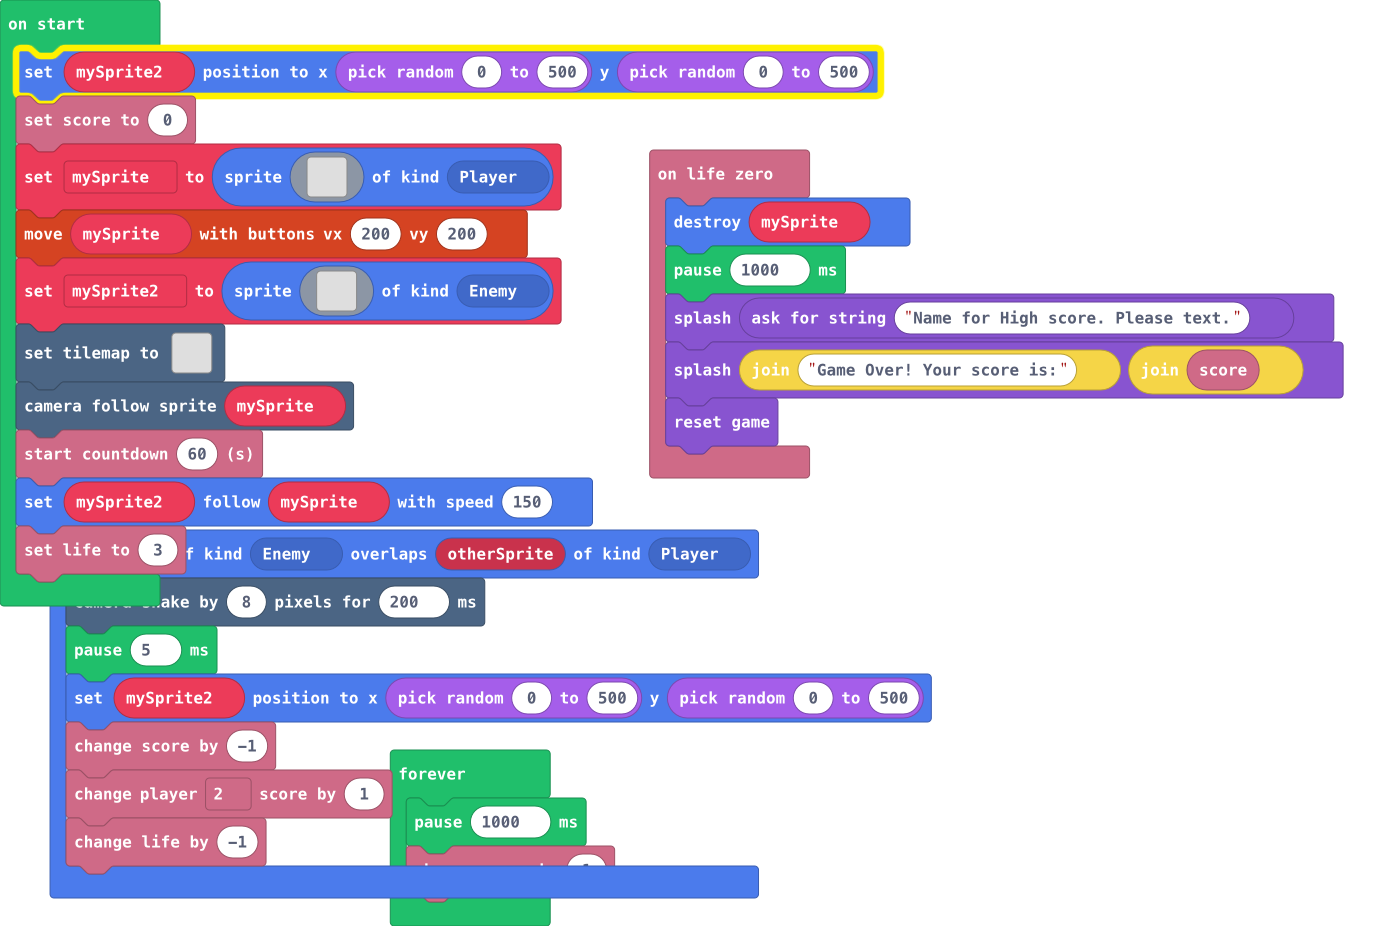
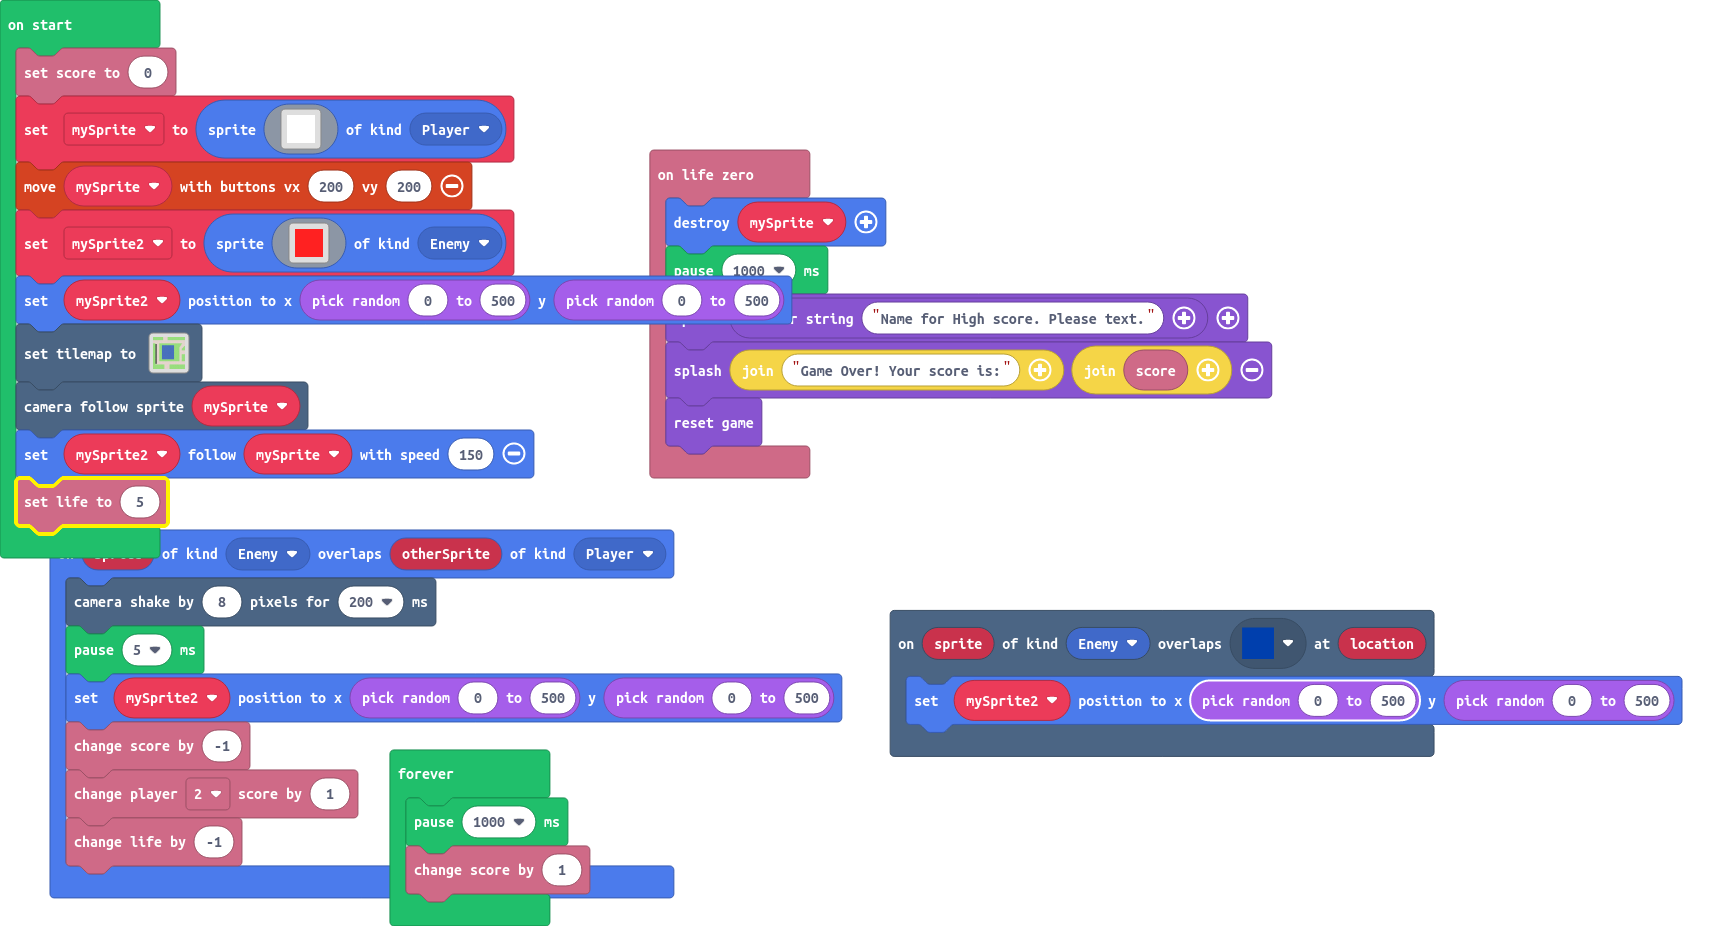
Ver.6.1 hotfix: ktcb-1: fixed the emeny who crashed the while loading the game Removed the countdown. ktcb-2: fixed who emeny spawned into the water.

diff --git a/main.ts b/main.ts
@@ -1,3 +1,6 @@
+scene.onOverlapTile(SpriteKind.Enemy, myTiles.tile2, function (sprite, location) {
+    mySprite2.setPosition(randint(0, 500), randint(0, 500))
+})
 sprites.onOverlap(SpriteKind.Enemy, SpriteKind.Player, function (sprite, otherSprite) {
     scene.cameraShake(8, 200)
     pause(5)
@@ -13,9 +16,8 @@ info.onLifeZero(function () {
     game.splash("Game Over! Your score is:", "" + info.score())
     game.reset()
 })
-let mySprite: Sprite = null
 let mySprite2: Sprite = null
-mySprite2.setPosition(randint(0, 500), randint(0, 500))
+let mySprite: Sprite = null
 info.setScore(0)
 mySprite = sprites.create(img`
     . . . . . . . . . . . . . . . . 
@@ -54,6 +56,7 @@ mySprite2 = sprites.create(img`
     . 2 2 2 2 2 2 2 2 2 2 2 2 2 2 . 
     . . . . . . . . . . . . . . . . 
     `, SpriteKind.Enemy)
+mySprite2.setPosition(randint(0, 500), randint(0, 500))
 tiles.setTilemap(tiles.createTilemap(hex`3200320003030303030303030303030303030303010101010101010303030303030303030303030303030303030303030303030303030303030303030303030303030303030301010101010101030303030303030303030303030303030303030303030303030303030303030303030303030303030303030101010101010103030303030303030303030303030303030303030303030303030303030303030303030303030303030303010101010101010303030303030303030303030303030303030303030303030303030303030303030303030303030303030301010101010101030303030303030303030303030303030303030303030303030303010101010101010101010101010101010101010101010101010101010101010101010101010101010101010101010101010101010101010101010101010101010101010101010101010101010101010101010101010101010101010101010101010101010101010101010101010101010101010101010101010101010101010101010101010101010101010101010101010101010101010101010101010101010101010101010101010101010101010101010101010101010101010101010101010101010101010101010101010101010101010101010101010101010101010101010101010101010101010101010101010101010101010101010303030301010101010103030303030303030303030303030303030303030303030303030303030303030303030401010101030303030505010101010303030303030303030303030303030303030303030303030303030303030303030304010101010103030303050501010101030303030303030303030303030303030303030303030303030303030303030303030401010101010303030305050101010103030303020202020202020202020202020202020202020303030303030303030304010101010101030303030505010101010303030302020202020202020202020202020202020202030303030303030303040101010101010303030303050501010101030303030202020202020202020202020202020202020203030303030303030304010101010103030303030305050101010103030303020202020202020202020202020202020202020303030303030303040101010101030303030303030505010101010303030302020202020202020202020202020202020202030303030303030304010101010303030303030303050501010101030303030202020202020202020202020202020202020203030303030303030401010103030303030303030305050101010103030303020202020202020202020202020202020202020303030303030303040101010303030303030303030505010101010303030302020202020202020202020202020202020202030303030303030304010101030303030303030303050501010101030303030202020202020202020202020202020202020203030303030303030401010101010101010303030305050101010103030303020202020202020202020202020202020202020303030303030303040101010101010101030303030505010101010303030302020202020202020202020202020202020202030303030303030304010101010101010103030303050501010101030303030202020202020202020202020202020202020203030303030303030401010101010101010303030305050101010103030303020202020202020202020202020202020202020303030303030303040101010101010101030303030505010101010303030302020202020202020202020202020202020202030303030303030304010101010101010103030303050501010101030303030202020202020202020202020202020202020203030303030303030401010103030303030303030305050101010103030303020202020202020202020202020202020202020303030303030303040101010303030303030303030505010101010303030302020202020202020202020202020202020202030303030303030304010101030303030303030303050501010101030303030202020202020202020202020202020202020203030303030303030401010103030303030303030305050101010103030303020202020202020202020202020202020202020303030303030303040101010303030303030303030505010101010303030302020202020202020202020202020202020202030303030303030304010101030303030303030303050501010101030303030202020202020202020202020202020202020203030303030303030401010103030303030303030305050101010103030303020202020202020202020202020202020202020303030303030303040101010303030303030303030505010101010303030303030303030303030303030303030303030303030303030303030304010101030303030303030303050501010101030303030303030303030303030303030303030303030303030303030303030401010103030303030303030305050101010103030303030303030303030303030303030303030303030303030303030303040101010303030303030303030505010101010101010101010101010101010101010101010101010101010101010101010101010101010101010103030303050501010101010101010101010101010101010101010101010101010101010101010101010101010101010101010303030305050101010101010101010101010101010101010101010101010101010101010101010101010101010101010101030303030505010101010101010101010101010101010101010101010101010101010101010101010101010101010101010103030303010101010101010101010101010101010101010101010101010101010101010101010101010101010101010101010303030303030303030303030303030303030101010101010101030303030303030303030303030303030303030303030303030303030303030303030303030303030303010101010101010103030303030303030303030303030303030303030303030303030303030303030303030303030303030301010101010101010303030303030303030303030303030303030303030303030303030303030303030303030303030303030101010101010101030303030303030303030303030303030303030303030303030303030303030303030303030303030303010101010101010103030303030303030303030303030303030303030303030303030303030303030303030303030303030301010101010101010303030303030303030303030303030303030303030303030303030303030303030303030303030303030101010101010101030303030303030303030303030303030303030303030303`, img`
     . . . . . . . . . . . . . . . . . . . . . . . . . . . . . . . . . . . . . . . . . . . . . . . . . . 
     . . . . . . . . . . . . . . . . . . . . . . . . . . . . . . . . . . . . . . . . . . . . . . . . . . 
@@ -107,9 +110,8 @@ tiles.setTilemap(tiles.createTilemap(hex`320032000303030303030303030303030303030
     . . . . . . . . . . . . . . . . . . . . . . . . . . . . . . . . . . . . . . . . . . . . . . . . . . 
     `, [myTiles.transparency16,myTiles.tile1,myTiles.tile2,myTiles.tile3,myTiles.tile5,myTiles.tile6], TileScale.Sixteen))
 scene.cameraFollowSprite(mySprite)
-info.startCountdown(60)
 mySprite2.follow(mySprite, 150)
-info.setLife(3)
+info.setLife(5)
 forever(function () {
     pause(1000)
     info.changeScoreBy(1)
